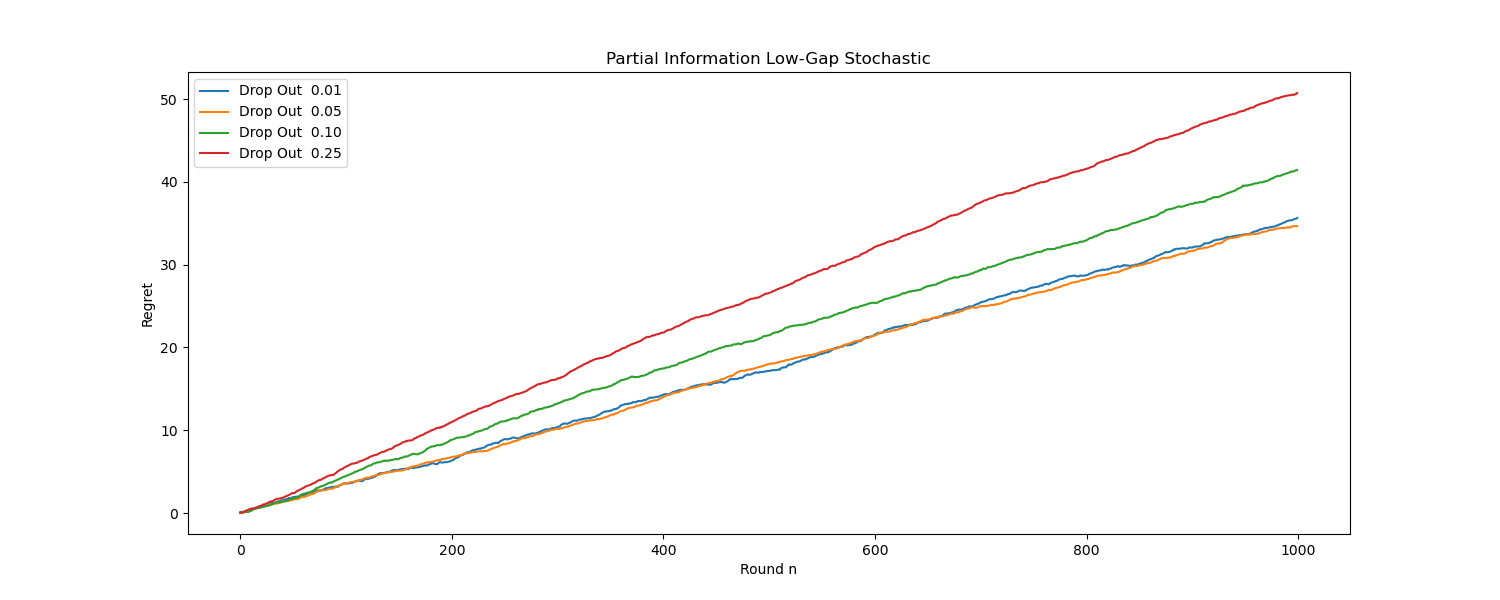
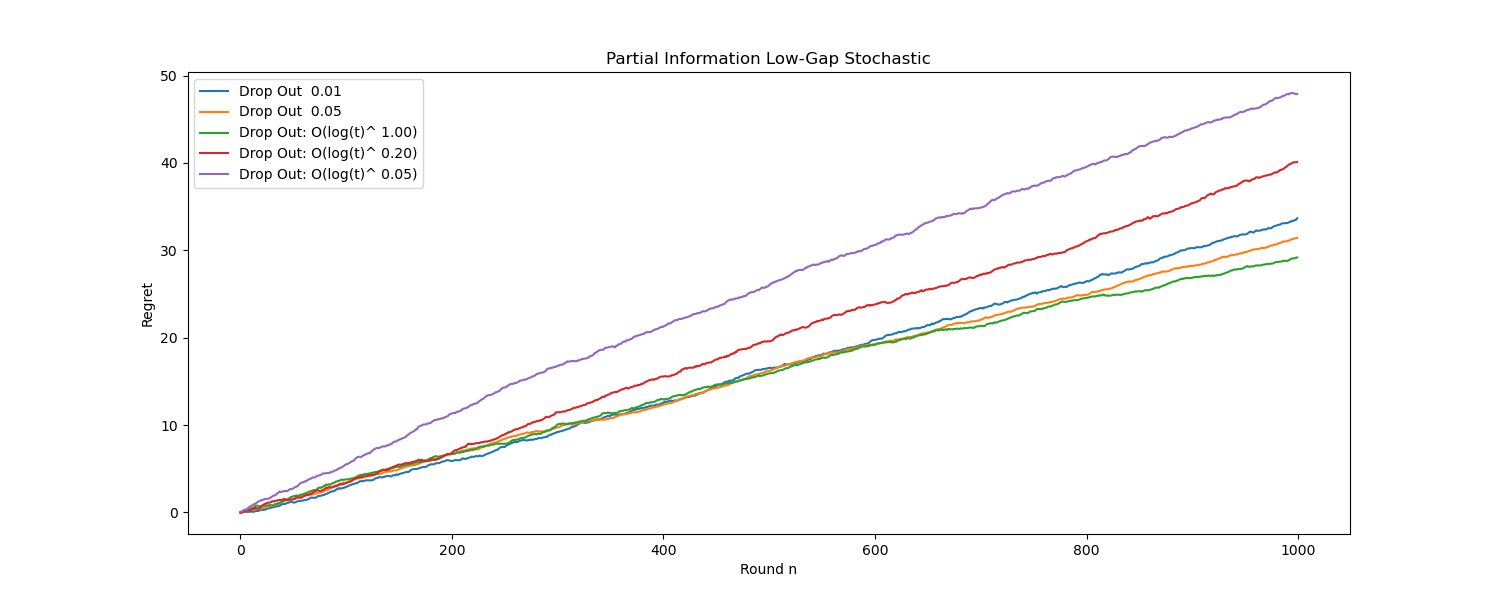
DropOut with O(pt) drop-count and O(log(t)^p) drop-count

diff --git a/scripts/drop_out_simulations.py b/scripts/drop_out_simulations.py
@@ -11,6 +11,7 @@ from data_generating_mechanism.stochastically_constrained import Stochastically_
 from data_generating_mechanism.stochastically_constrained_fast_switch import Stochastically_Constrained_Fast_Switch
 from data_generating_mechanism.low_gap_stochastic import Low_Gap_Stochastic
 from bandit_algorithms.dropout import DropOut_FI, DropOut_PI
+from bandit_algorithms.dropout_log import DropOutLog_FI, DropOutLog_PI
 import numpy as np
 
 high_gap_stochastic_data_job = High_Gap_Stochastic()
@@ -20,12 +21,12 @@ stochastically_constrained_fast_switch_data_job = Stochastically_Constrained_Fas
 
 drop_out_point_zero_one = DropOut_FI(stochastically_constrained_data_job, dropout_prob=0.01)
 drop_out_point_zero_five = DropOut_FI(stochastically_constrained_data_job, dropout_prob=0.05)
-drop_out_point_one = DropOut_FI(stochastically_constrained_data_job, dropout_prob=0.1)
-drop_out_point_two_five = DropOut_FI(stochastically_constrained_data_job, dropout_prob=0.25)
-drop_out_point_five = DropOut_FI(stochastically_constrained_data_job, dropout_prob=0.5)
+drop_out_log_one = DropOutLog_FI(stochastically_constrained_data_job, p=1)
+drop_out_log_point_two = DropOutLog_FI(stochastically_constrained_data_job, p=0.2)
+drop_out_log_point_zero_five = DropOutLog_FI(stochastically_constrained_data_job, p=0.05)
 full_info_ground = Full_Info_Play_Ground(stochastically_constrained_data_job, 
-                                         [drop_out_point_zero_one, drop_out_point_zero_five,  
-                                          drop_out_point_one, drop_out_point_two_five, drop_out_point_five], 
+                                         [drop_out_point_zero_one, drop_out_point_zero_five, 
+                                          drop_out_log_one, drop_out_log_point_two, drop_out_log_point_zero_five], 
                                           plot_label="Full Information Stochastic Adversarial (Exponential Switch)",
                                           plot_directory="results/dropout_simulations/")
 full_info_ground.plot_results()
@@ -33,55 +34,60 @@ full_info_ground.plot_results()
 drop_out_point_zero_one = DropOut_FI(stochastically_constrained_fast_switch_data_job, dropout_prob=0.01)
 drop_out_point_zero_five = DropOut_FI(stochastically_constrained_fast_switch_data_job, dropout_prob=0.05)
 drop_out_point_one = DropOut_FI(stochastically_constrained_fast_switch_data_job, dropout_prob=0.1)
-drop_out_point_two_five = DropOut_FI(stochastically_constrained_fast_switch_data_job, dropout_prob=0.25)
-drop_out_point_five = DropOut_FI(stochastically_constrained_fast_switch_data_job, dropout_prob=0.5)
+drop_out_log_one = DropOutLog_FI(stochastically_constrained_fast_switch_data_job, p=1)
+drop_out_log_point_two = DropOutLog_FI(stochastically_constrained_fast_switch_data_job, p=0.2)
+drop_out_log_point_zero_five = DropOutLog_FI(stochastically_constrained_fast_switch_data_job, p=0.05)
 full_info_ground = Full_Info_Play_Ground(stochastically_constrained_fast_switch_data_job, 
-                                         [drop_out_point_zero_one, drop_out_point_zero_five,  
-                                          drop_out_point_one, drop_out_point_two_five, drop_out_point_five], 
+                                         [drop_out_point_zero_one, drop_out_point_zero_five,
+                                          drop_out_log_one, drop_out_log_point_two, drop_out_log_point_zero_five], 
                                           plot_label="Full Information Stochastic Adversarial (Fast Switch)",
                                           plot_directory="results/dropout_simulations/")
 full_info_ground.plot_results()
 
 drop_out_point_zero_one = DropOut_PI(stochastically_constrained_data_job, dropout_prob=0.01)
 drop_out_point_zero_five = DropOut_PI(stochastically_constrained_data_job, dropout_prob=0.05)
-drop_out_point_one = DropOut_PI(stochastically_constrained_data_job, dropout_prob=0.1)
-drop_out_point_two_five = DropOut_PI(stochastically_constrained_data_job, dropout_prob=0.25)
+drop_out_log_one = DropOutLog_PI(stochastically_constrained_data_job, p=1)
+drop_out_log_point_two = DropOutLog_PI(stochastically_constrained_data_job, p=0.2)
+drop_out_log_point_zero_five = DropOutLog_PI(stochastically_constrained_data_job, p=0.05)
 partial_info_ground = Partial_Info_Play_Ground(stochastically_constrained_data_job, 
                                                [drop_out_point_zero_one, drop_out_point_zero_five,  
-                                                drop_out_point_one, drop_out_point_two_five], 
+                                                drop_out_log_one, drop_out_log_point_two, drop_out_log_point_zero_five], 
                                                plot_label="Partial Information Stochastic Adversarial (Exponential Switch)",
                                                plot_directory="results/dropout_simulations/")
 partial_info_ground.plot_results()
 
-drop_out_point_zero_one = DropOut_PI(stochastically_constrained_data_job, dropout_prob=0.01)
-drop_out_point_zero_five = DropOut_PI(stochastically_constrained_data_job, dropout_prob=0.05)
-drop_out_point_one = DropOut_PI(stochastically_constrained_data_job, dropout_prob=0.1)
-drop_out_point_two_five = DropOut_PI(stochastically_constrained_data_job, dropout_prob=0.25)
-partial_info_ground = Partial_Info_Play_Ground(stochastically_constrained_data_job, 
+drop_out_point_zero_one = DropOut_PI(stochastically_constrained_fast_switch_data_job, dropout_prob=0.01)
+drop_out_point_zero_five = DropOut_PI(stochastically_constrained_fast_switch_data_job, dropout_prob=0.05)
+drop_out_log_one = DropOutLog_PI(stochastically_constrained_fast_switch_data_job, p=1)
+drop_out_log_point_two = DropOutLog_PI(stochastically_constrained_fast_switch_data_job, p=0.2)
+drop_out_log_point_zero_five = DropOutLog_PI(stochastically_constrained_fast_switch_data_job, p=0.05)
+partial_info_ground = Partial_Info_Play_Ground(stochastically_constrained_fast_switch_data_job, 
                                                [drop_out_point_zero_one, drop_out_point_zero_five,  
-                                                drop_out_point_one, drop_out_point_two_five], 
+                                                drop_out_log_one, drop_out_log_point_two, drop_out_log_point_zero_five], 
                                                plot_label="Partial Information Stochastic Adversarial (Fast Switch)",
                                                plot_directory="results/dropout_simulations/")
 partial_info_ground.plot_results()
 
 drop_out_point_zero_one = DropOut_PI(high_gap_stochastic_data_job, dropout_prob=0.01)
 drop_out_point_zero_five = DropOut_PI(high_gap_stochastic_data_job, dropout_prob=0.05)
-drop_out_point_one = DropOut_PI(high_gap_stochastic_data_job, dropout_prob=0.1)
-drop_out_point_two_five = DropOut_PI(high_gap_stochastic_data_job, dropout_prob=0.25)
+drop_out_log_one = DropOutLog_PI(high_gap_stochastic_data_job, p=1)
+drop_out_log_point_two = DropOutLog_PI(high_gap_stochastic_data_job, p=0.2)
+drop_out_log_point_zero_five = DropOutLog_PI(high_gap_stochastic_data_job, p=0.05)
 partial_info_ground = Partial_Info_Play_Ground(high_gap_stochastic_data_job, 
                                                [drop_out_point_zero_one, drop_out_point_zero_five,  
-                                                drop_out_point_one, drop_out_point_two_five], 
+                                                drop_out_log_one, drop_out_log_point_two, drop_out_log_point_zero_five], 
                                                plot_label="Partial Information High-Gap Stochastic",
                                                plot_directory="results/dropout_simulations/")
 partial_info_ground.plot_results()
 
 drop_out_point_zero_one = DropOut_PI(low_gap_stochastic_data_job, dropout_prob=0.01)
 drop_out_point_zero_five = DropOut_PI(low_gap_stochastic_data_job, dropout_prob=0.05)
-drop_out_point_one = DropOut_PI(low_gap_stochastic_data_job, dropout_prob=0.1)
-drop_out_point_two_five = DropOut_PI(low_gap_stochastic_data_job, dropout_prob=0.25)
+drop_out_log_one = DropOutLog_PI(low_gap_stochastic_data_job, p=1)
+drop_out_log_point_two = DropOutLog_PI(low_gap_stochastic_data_job, p=0.2)
+drop_out_log_point_zero_five = DropOutLog_PI(low_gap_stochastic_data_job, p=0.05)
 partial_info_ground = Partial_Info_Play_Ground(low_gap_stochastic_data_job, 
                                                [drop_out_point_zero_one, drop_out_point_zero_five,  
-                                                drop_out_point_one, drop_out_point_two_five], 
+                                                drop_out_log_one, drop_out_log_point_two, drop_out_log_point_zero_five], 
                                                plot_label="Partial Information Low-Gap Stochastic",
                                                plot_directory="results/dropout_simulations/")
 partial_info_ground.plot_results()

diff --git a/src/bandit_algorithms/dropout_log.py b/src/bandit_algorithms/dropout_log.py
@@ -1,0 +1,93 @@
+import numpy as np
+from numpy import random
+from bandit_algorithms.algorithm_class import Bandit_Algorithm_PI, Bandit_Algorithm_FI
+import math
+
+class DropOutLog_FI(Bandit_Algorithm_FI):
+    def __init__(self, data_generating_mechanism, p):
+        super().__init__()
+        self.K = data_generating_mechanism.get_K()
+        self.T = data_generating_mechanism.get_T()
+        self.exploration_phase_length = data_generating_mechanism.get_exploration_phase_length()
+        self.init_exploration = data_generating_mechanism.get_init_exploration()
+        self.p = p
+        self.__label = "Drop Out: O(log(t)^{prob: 0.2f})".format(prob = self.p)
+        self.__data_generating_mechanism = data_generating_mechanism
+
+    @property
+    def data_generating_mechanism(self):
+        return self.__data_generating_mechanism
+    
+    @property
+    def label(self):
+        return self.__label
+
+    def get_arm_to_pull(self, losses, t):
+        if (t < self.exploration_phase_length):
+            return math.floor(t / self.init_exploration)
+        else:
+            copied_history = np.copy(losses)
+            uniform_sample = list(random.choice(t, size = math.floor(math.log(t) ** self.p), replace=False))
+            copied_history[:, uniform_sample] = np.zeros(shape = (self.K, math.floor(math.log(t) ** self.p)))
+            arm_estimates_current_round = np.mean(copied_history, axis = 1)
+            return np.argmin(arm_estimates_current_round)
+        
+class DropOutLog_PI(Bandit_Algorithm_PI):
+    def __init__(self, data_generating_mechanism, p):
+        super().__init__()
+        self.K = data_generating_mechanism.get_K()
+        self.T = data_generating_mechanism.get_T()
+        self.exploration_phase_length = data_generating_mechanism.get_exploration_phase_length()
+        self.init_exploration = data_generating_mechanism.get_init_exploration()
+        self.p = p
+        self.num_bootstrap_simulations = 100
+
+        self.__label = "Drop Out: O(log(t)^{prob: 0.2f})".format(prob = self.p)
+        self.__data_generating_mechanism = data_generating_mechanism
+        self.__current_sampling_distribution = np.ones(shape = self.K) / self.K
+
+    @property
+    def data_generating_mechanism(self):
+        return self.__data_generating_mechanism
+    
+    @property
+    def label(self):
+        return self.__label
+    
+    @property
+    def current_sampling_distribution(self):
+        return self.__current_sampling_distribution
+    
+    @current_sampling_distribution.setter
+    def current_sampling_distribution(self, distr):
+        self.__current_sampling_distribution = distr 
+
+    def get_arm_to_pull(self, importance_weighted_losses, losses, t):
+        if (t <= self.exploration_phase_length):
+            return math.floor(t / self.init_exploration)
+        else:
+            num_counts = np.zeros(shape = self.K)
+
+            for n in range(self.num_bootstrap_simulations):
+                copied_history = np.copy(importance_weighted_losses)
+                uniform_sample = list(random.choice(t, size = math.floor(math.log(t) ** self.p), replace=False))
+                copied_history[:, uniform_sample] = np.zeros(shape = (self.K, math.floor(math.log(t) ** self.p)))
+
+                arm_estimates_current_simulation = np.mean(copied_history, axis = 1)
+                arm_chosen_this_simulation = np.argmin(arm_estimates_current_simulation)
+                num_counts[arm_chosen_this_simulation] = num_counts[arm_chosen_this_simulation] + 1
+                if (self.num_bootstrap_simulations == n + 1):
+                    A_t = arm_chosen_this_simulation
+                    
+            p_t = num_counts / self.num_bootstrap_simulations
+            
+            # flip a bernoulli with success 
+            # probability of (1/t) to add an 
+            # explicit exploration component
+            z = np.random.binomial(n = 1, p = (1 / t))
+            self.current_sampling_distribution = ((1 - (1 / t)) * p_t) + (1 / (t * self.K))
+
+            if (z == 1):
+                A_t = random.randint(low = 0, high = self.K, size = 1)
+            
+            return A_t
